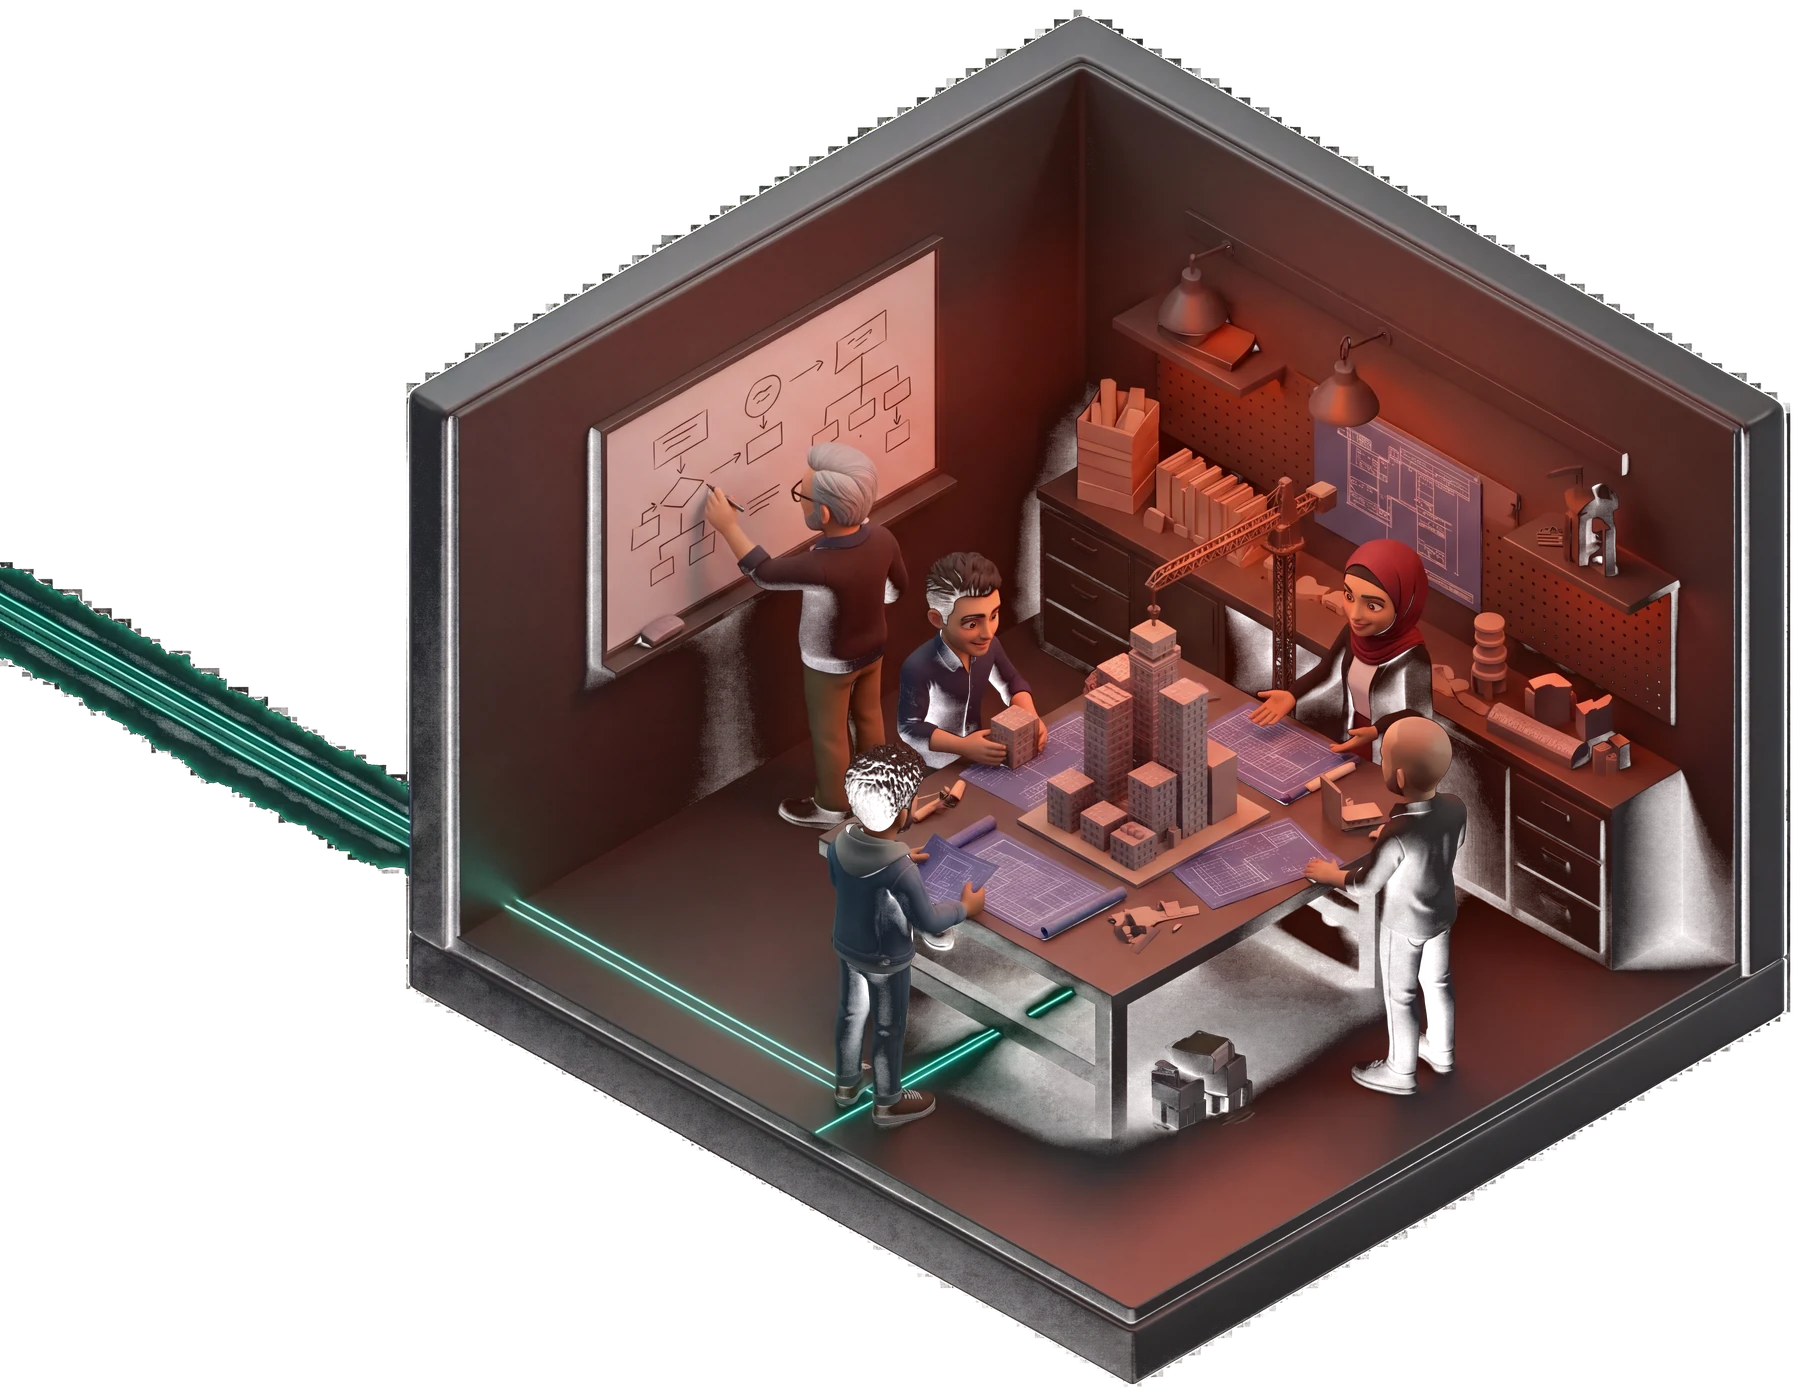
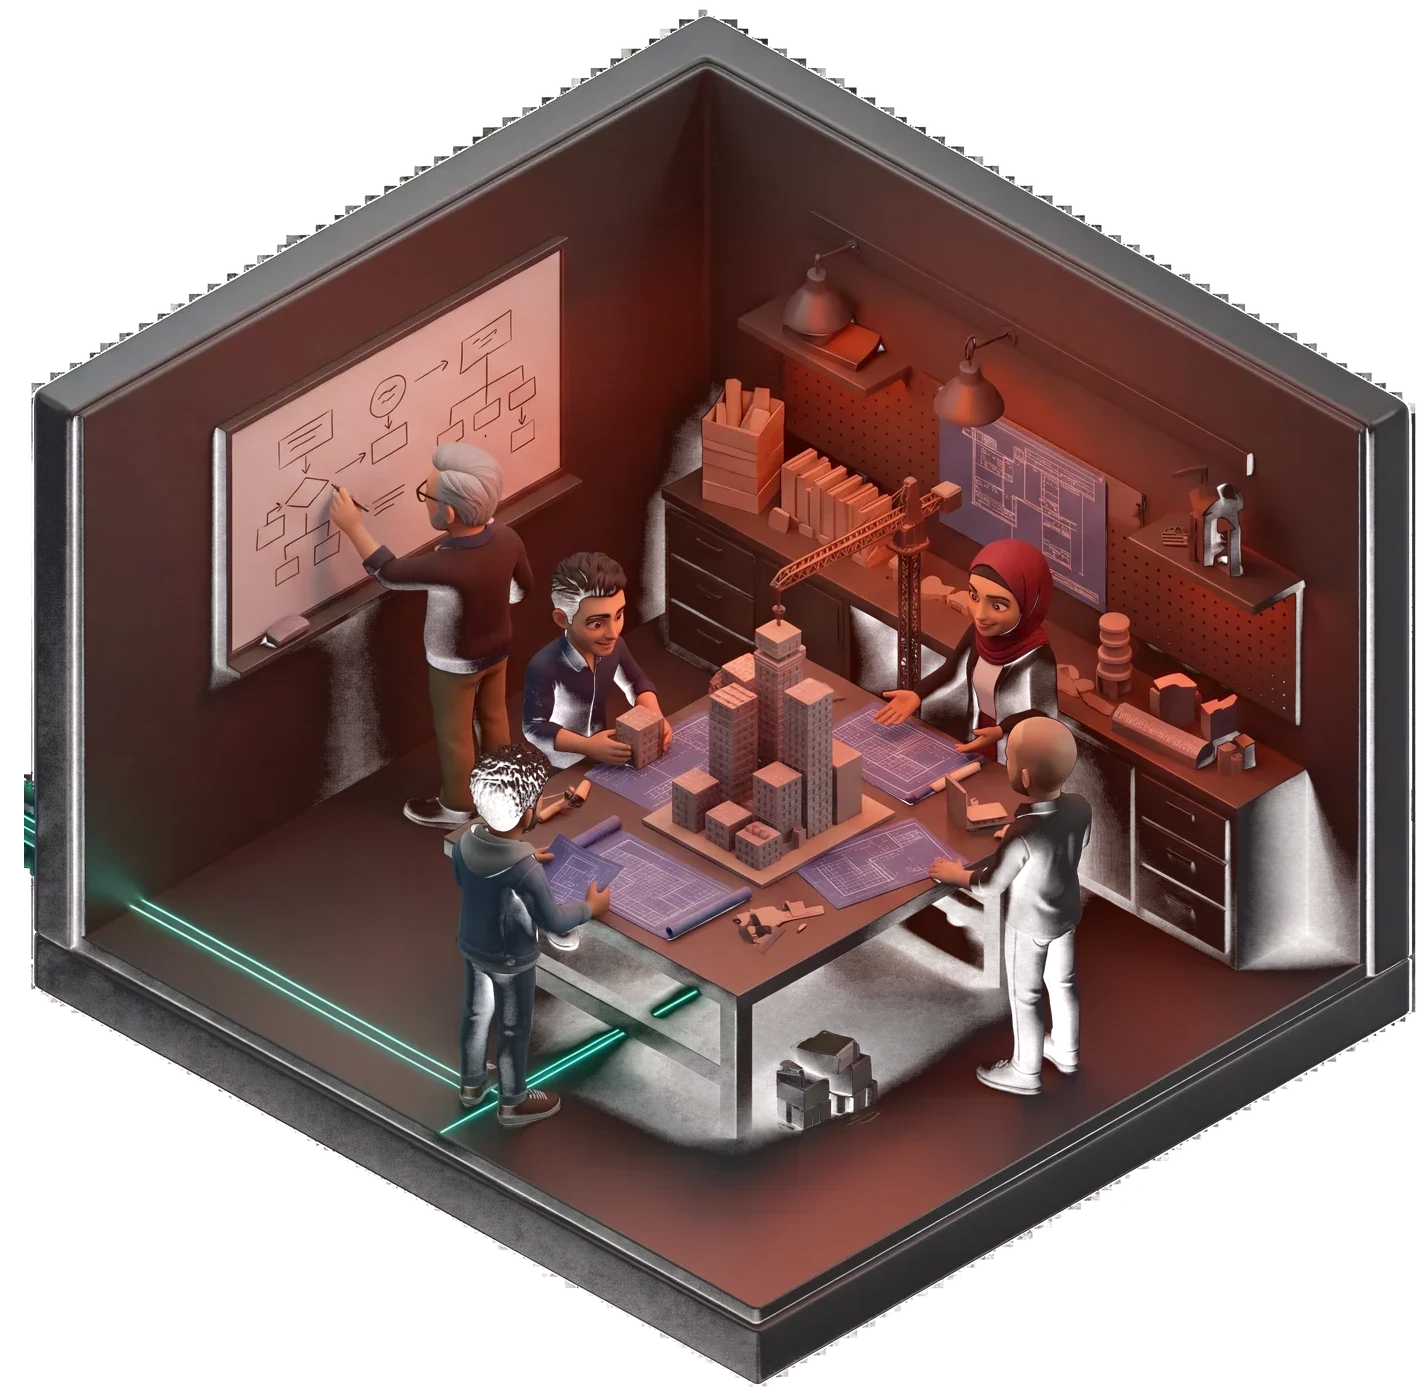
Landing: tidy workshop cut-out and log the scenes decision
Drops the hazy outside thread from the BRICKR workshop, crops it and remaps its
labels and threads. Decisions log: scenes show Ahmed, Karim and community members.

Claude-Session: https://claude.ai/code/session_018RCKuAqLNg43PyQqtjNNDi

diff --git a/src/app/site/page.tsx b/src/app/site/page.tsx
@@ -73,9 +73,9 @@ const SPACES: Space[] = [
     cta: "Request a meeting",
     href: "/brickr",
     photo: "/landing/workshop.webp",
-    size: [1800, 1397],
-    labels: [{ label: "Lead", x: 53, y: 38 }, { label: "Mentor", x: 81, y: 48 }],
-    flows: [[[0, 43], [23, 60], [28, 64.5], [46, 75.5]], [[45, 80], [59, 70.5]]],
+    size: [1425, 1397],
+    labels: [{ label: "Lead", x: 40.6, y: 38 }, { label: "Mentor", x: 76, y: 48 }],
+    flows: [[[2.7, 60], [9.1, 64.5], [31.8, 75.5]], [[30.5, 80], [48.2, 70.5]]],
     icon: Briefcase,
   },
   {

diff --git a/CLAUDE.md b/CLAUDE.md
@@ -90,3 +90,4 @@ Add product decisions here as they are made (prices, refund policy, roles, langu
 - CRM and Contacts follow-up (2026-11-17, approved): businesses members list in their profiles join Admin › Businesses automatically (database trigger; matched by website, then by name; member linked with their profile role, `company_people.source = profile`); removing one from a profile drops only that automatic link, never the business, deals or team-added links. "Relationship with VW" tags on businesses (several): Partner, Client, Service Provider, Sponsor, Investor, Portfolio, Prospect, Community. Contacts list shows businesses; contact pages link each business to its CRM page, have "Add to a business" with role, and a Messages tab where staff with Messages (manage) reply or start a conversation (`team_start_thread`; member told in their bell). The "From member profiles" tab is gone.
 - Member business news (2026-11-17, approved): members share news about their business from "Share your news" (`/share-news`; buttons in My space › My news and the Outloud blog): business, type (Funding round, Launch, Partnership, New hire, Milestone or award, Event, Other), headline, date, summary (300), details (3,000), optional link and image (content-images `news/<member>/`), preferred section (Newsletter, VW Notes, Either), contact, public-sharing consent; 5 a day. Stored in `news_submissions`; partners emailed. Admin › Requests › Business news: Save draft / Approve and publish (creates the blog post tagged "Member news", credited to the business) / Decline with a note; member told in their bell. Viewing needs Requests or Content view; editing and publishing need Content (manage). Approving does not send the newsletter email.
 - Landing page redesign (2026-11-17, in review on branch `landing-redesign`): 3D isometric scenes are allowed on the landing page (Ahmed's direction, replacing "no 3D images" there; the member app keeps photos, patterns and icons). Scenes generated with Nano Banana 2.1 in Google AI Studio, one style: dark charcoal dioramas, faceless figurines, teal threads, space accent colours; files in `public/landing` (WebP). Page: floating house hero with pointer tilt, light streaks and room labels; pinned "Walk through the house" camera journey; 3D close-up per space; smooth scrolling (Lenis). Calls to action never say "free".
+- Landing scenes with people (2026-11-18): the landing page 3D scenes show real cartoon people instead of grey figurines, with Ahmed and Karim (both agreed to their likeness) in every scene and community members around them. Made in Google AI Studio with Nano Banana Pro at 4K from character sheets; source images kept in Downloads/VW AI Studio.
